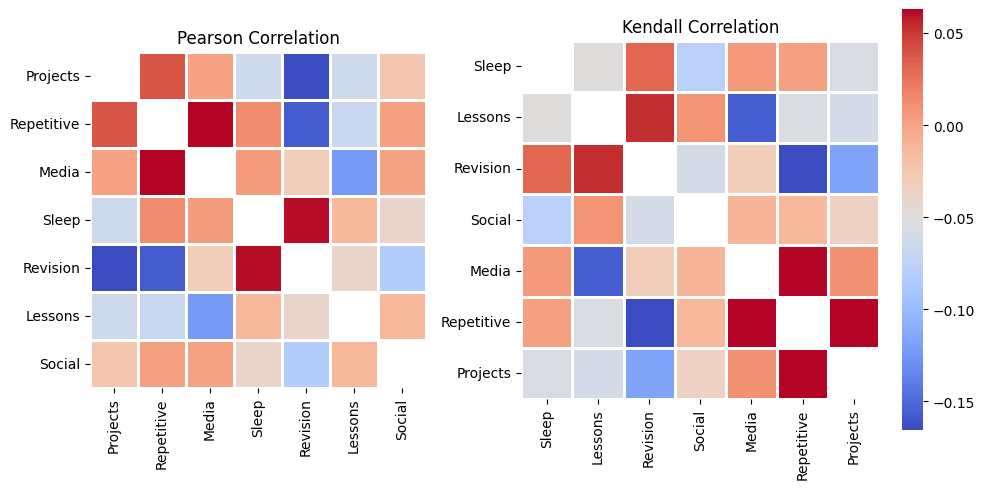
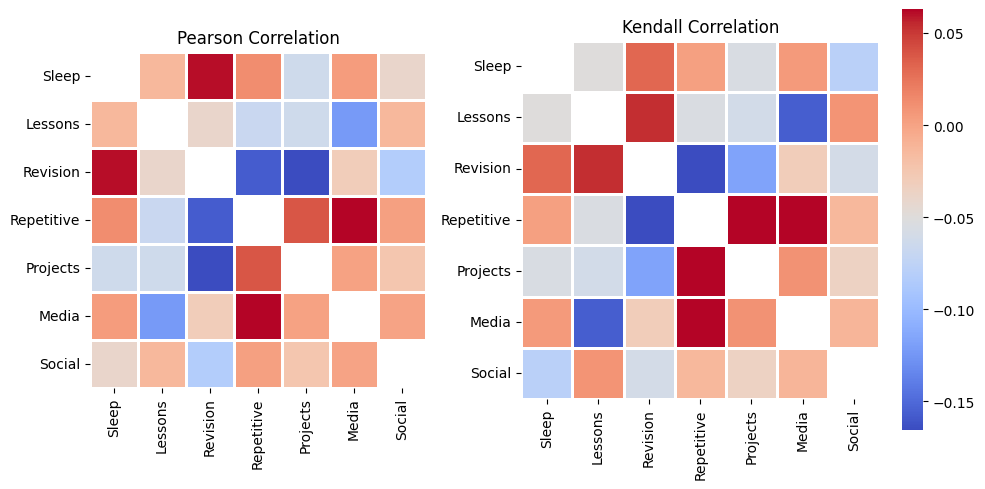
feat: correlations and cluster time distribution

diff --git a/README.md b/README.md
@@ -451,6 +451,10 @@ The standard method (z-score normalisation) is used to verify the presence of ou
 
 ### Normalisation
 
+In order for some data analysis methods to work properly, numeric data is extracted from the summary table, then each column is normalised so its mean is 0 and its standard deviation is 1 (z-score normalisation). 
+
+The **Pandas** library allows to perform a study, then redisplay the data with the original metadata from the summary table, as the indices in the old and modified table match and can be used to merge the results to their labels.
+
 ### Clustering
 
 Consider how each data point in the summary table represents a combination of total times dedicated to each activity within a fixed timeframe:
@@ -528,6 +532,18 @@ From the table, it seems that if one considers 5 groups of behaviour, _Projects_
 
 Clustering has the advantage of being nonparametric and nonlinear, making it effective at modelling qualitative properties, though this comes at the cost of a quantitative understanding of the data.
 
+### Distributions in Time
+
+Having identified clusters and their labels, I also like to visualise them in relation to relevant time frames. 
+
+For example, fixing 5 clusters over the [standard](#merging-by-category) division of tags, I can obtain a histogram of how 'days' are spread throughout: _Project_ days focus on Sundays, whereas _Social_ days are preferred on Saturday and Tuesday.
+
+![](assets/standard_week_distribution.png)
+
+The same can be done over the months, which confirms the correctness of the labels.
+
+![](assets/standard_month_distribution.png)
+
 ### PCA
 
 [Principal Component Analysis](https://youtu.be/FD4DeN81ODY) is an elementary technique which reduces the number of variables needed to represent the data. It is useful to both visualise and understand datasets, assuming they are 'simple' enough.
@@ -546,19 +562,23 @@ PCA process is particularly useful if the data is 'simple' enough (ie. features 
 
 ### Correlations
 
-As clustering does not give a precise sense of how different categories are related, correlation matrices are computed for each component of the data.
+As clustering does not give a precise sense of how different categories are related, correlation matrices are computed for each component of the data, giving a finer notion of how columns in the summary table relate.
 
-A correlation matrix is a square table of correlations, representing how two variables tend to agree, rated from -1 to +1, depending on whether the value of one tends to be the negative of the other, the same, or unrelated, if 0.
+A correlation matrix is a square table of correlation coefficients, representing how two variables tend to agree in size, rated from -1 to +1, depending on whether the value of one tends to be the negative of the other, the same, or totally unrelated, if 0.
 
 The following picture gives a sense of how different activities are correlated: a red value represents that the two activities tend to be high at the same time, whereas a blue value refers to one activity being high when the other is low. In either case, one should observe that correlation tends to be low (0.05), which should be attributed to a lot of hidden variables and unpredictability affecting the result.
 
 ![](assets/standard_correlation_matrix_comparison.png)
 
-The picture compares two kinds of correlations: Pearson, which is susceptible to outliers, and Kendall, more robust to extreme cases. The columns of both matrices are then sorted by relative similarity. 
+I experimented with using more kinds of correlations: Pearson, which is susceptible to outliers, and Kendall, more robust to extreme cases. This can be seen in _Sleep_ and _Revision_ appear drastically different due to the presence of outliers; ie. points with either a lot of lessons and a lot of revision, which skew the whole statistic.
 
-### Distribution
+In my study of the correlations, I also observed correlations between present and future values, answering the question, "If I do a lot of one thing now, how much more do I do another thing later?". One weakness of this method is to be symmetric, not distinguishing between high now and low later and low now and high later. Still, it is interesting to see some interpretable results: a lot of _projects_ will reduce _media consumption_.
+
+![](assets/kendall_correlation_standard.png)
 
 ### Transitions
+
+
 
 ### Energy Function
 
